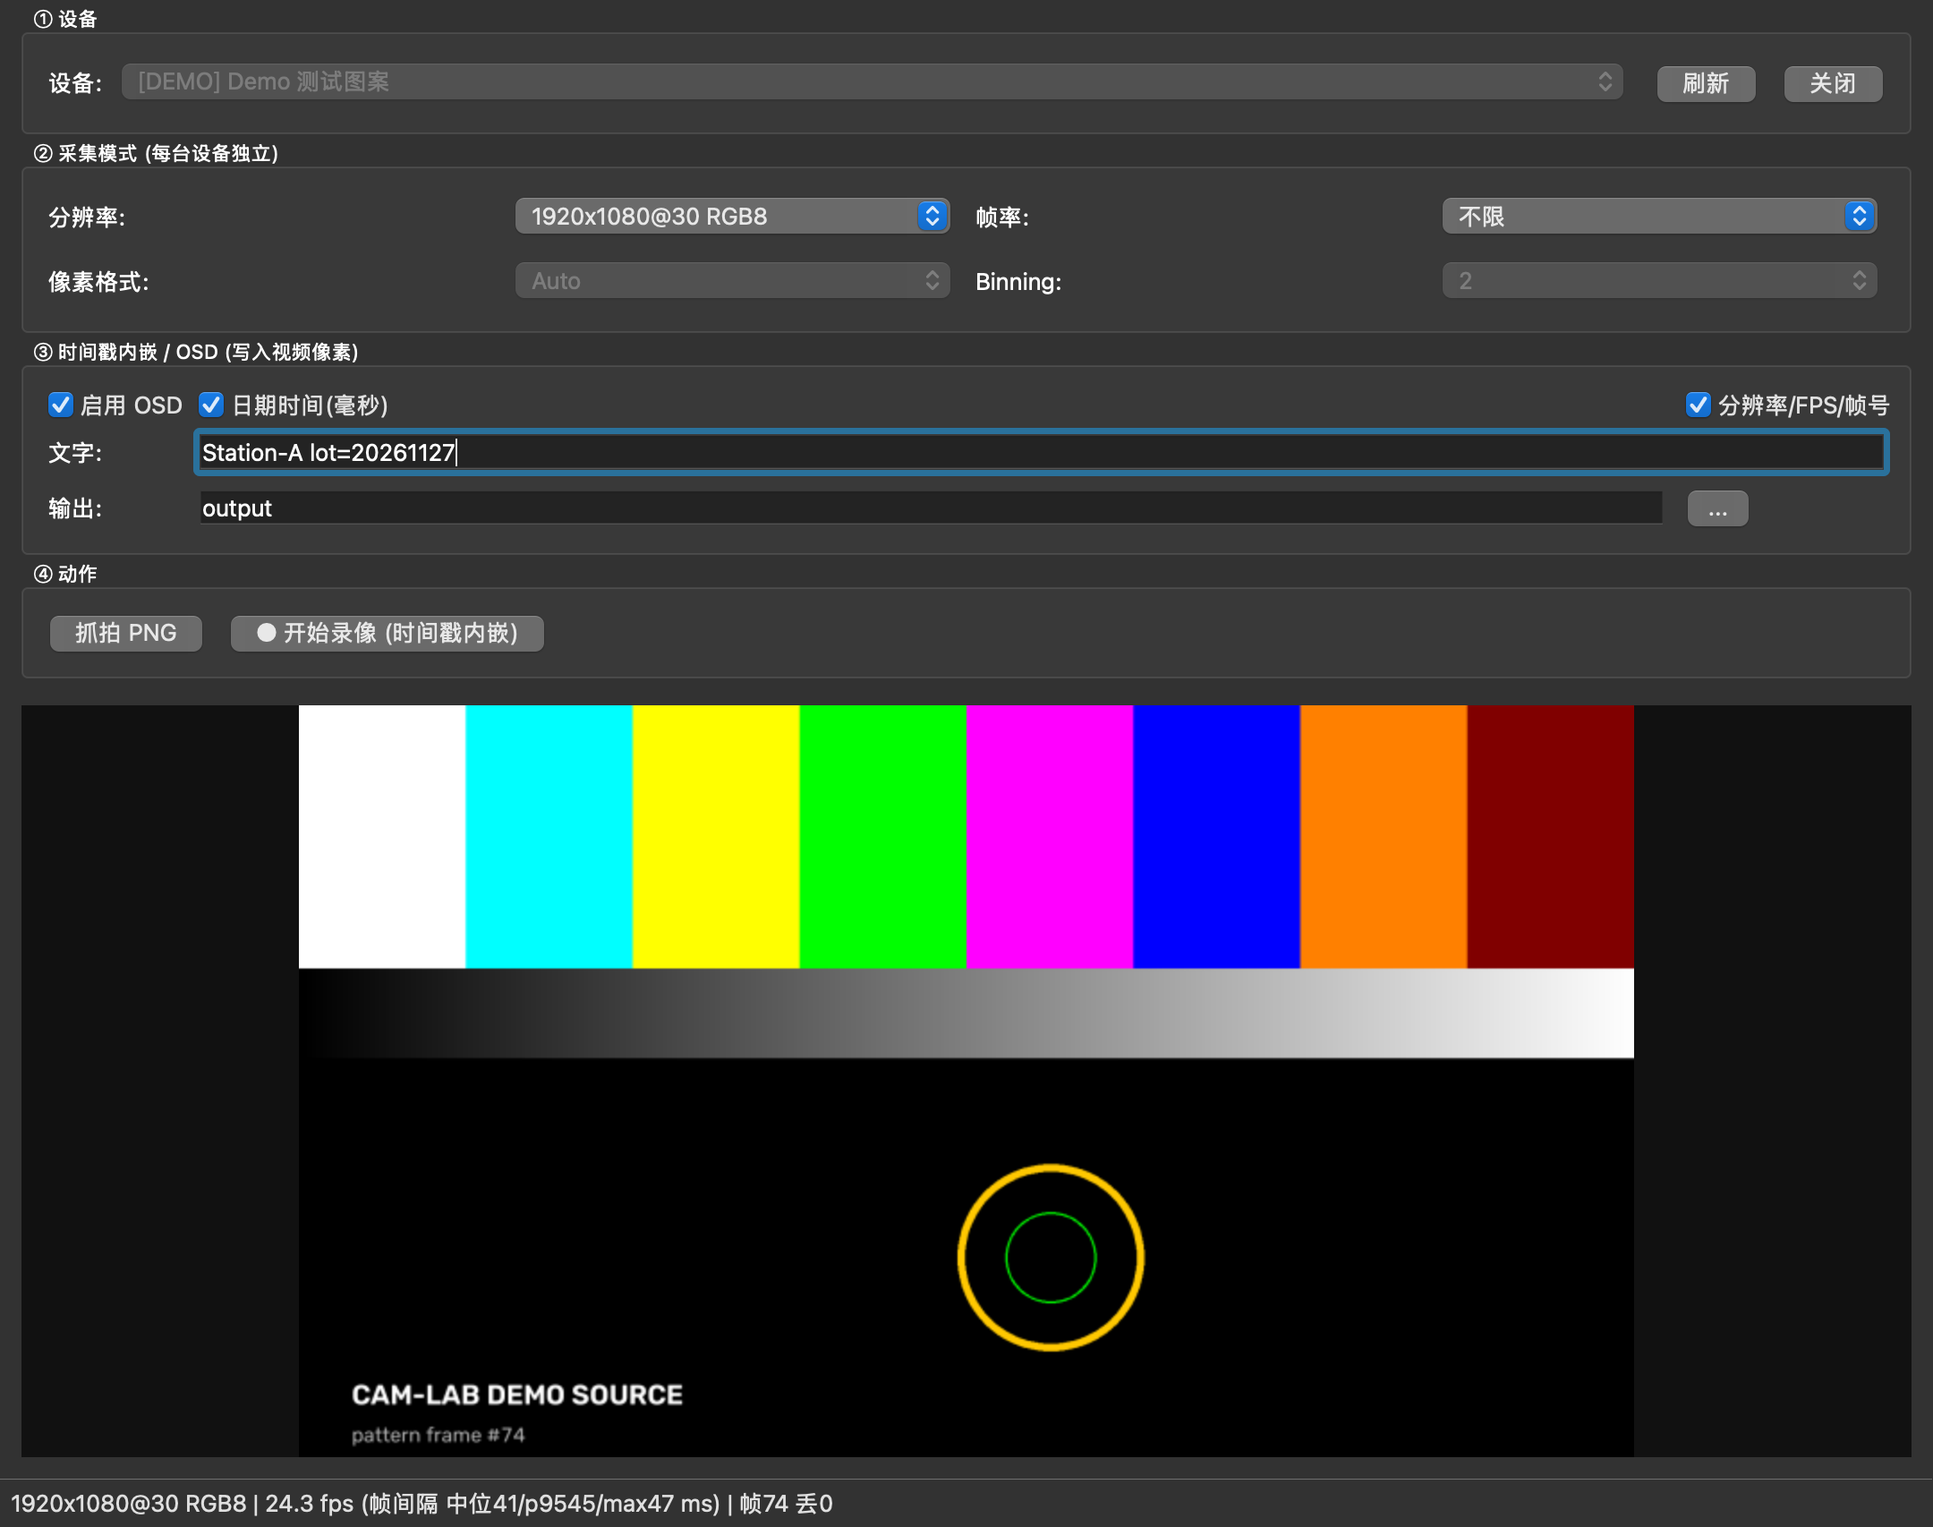
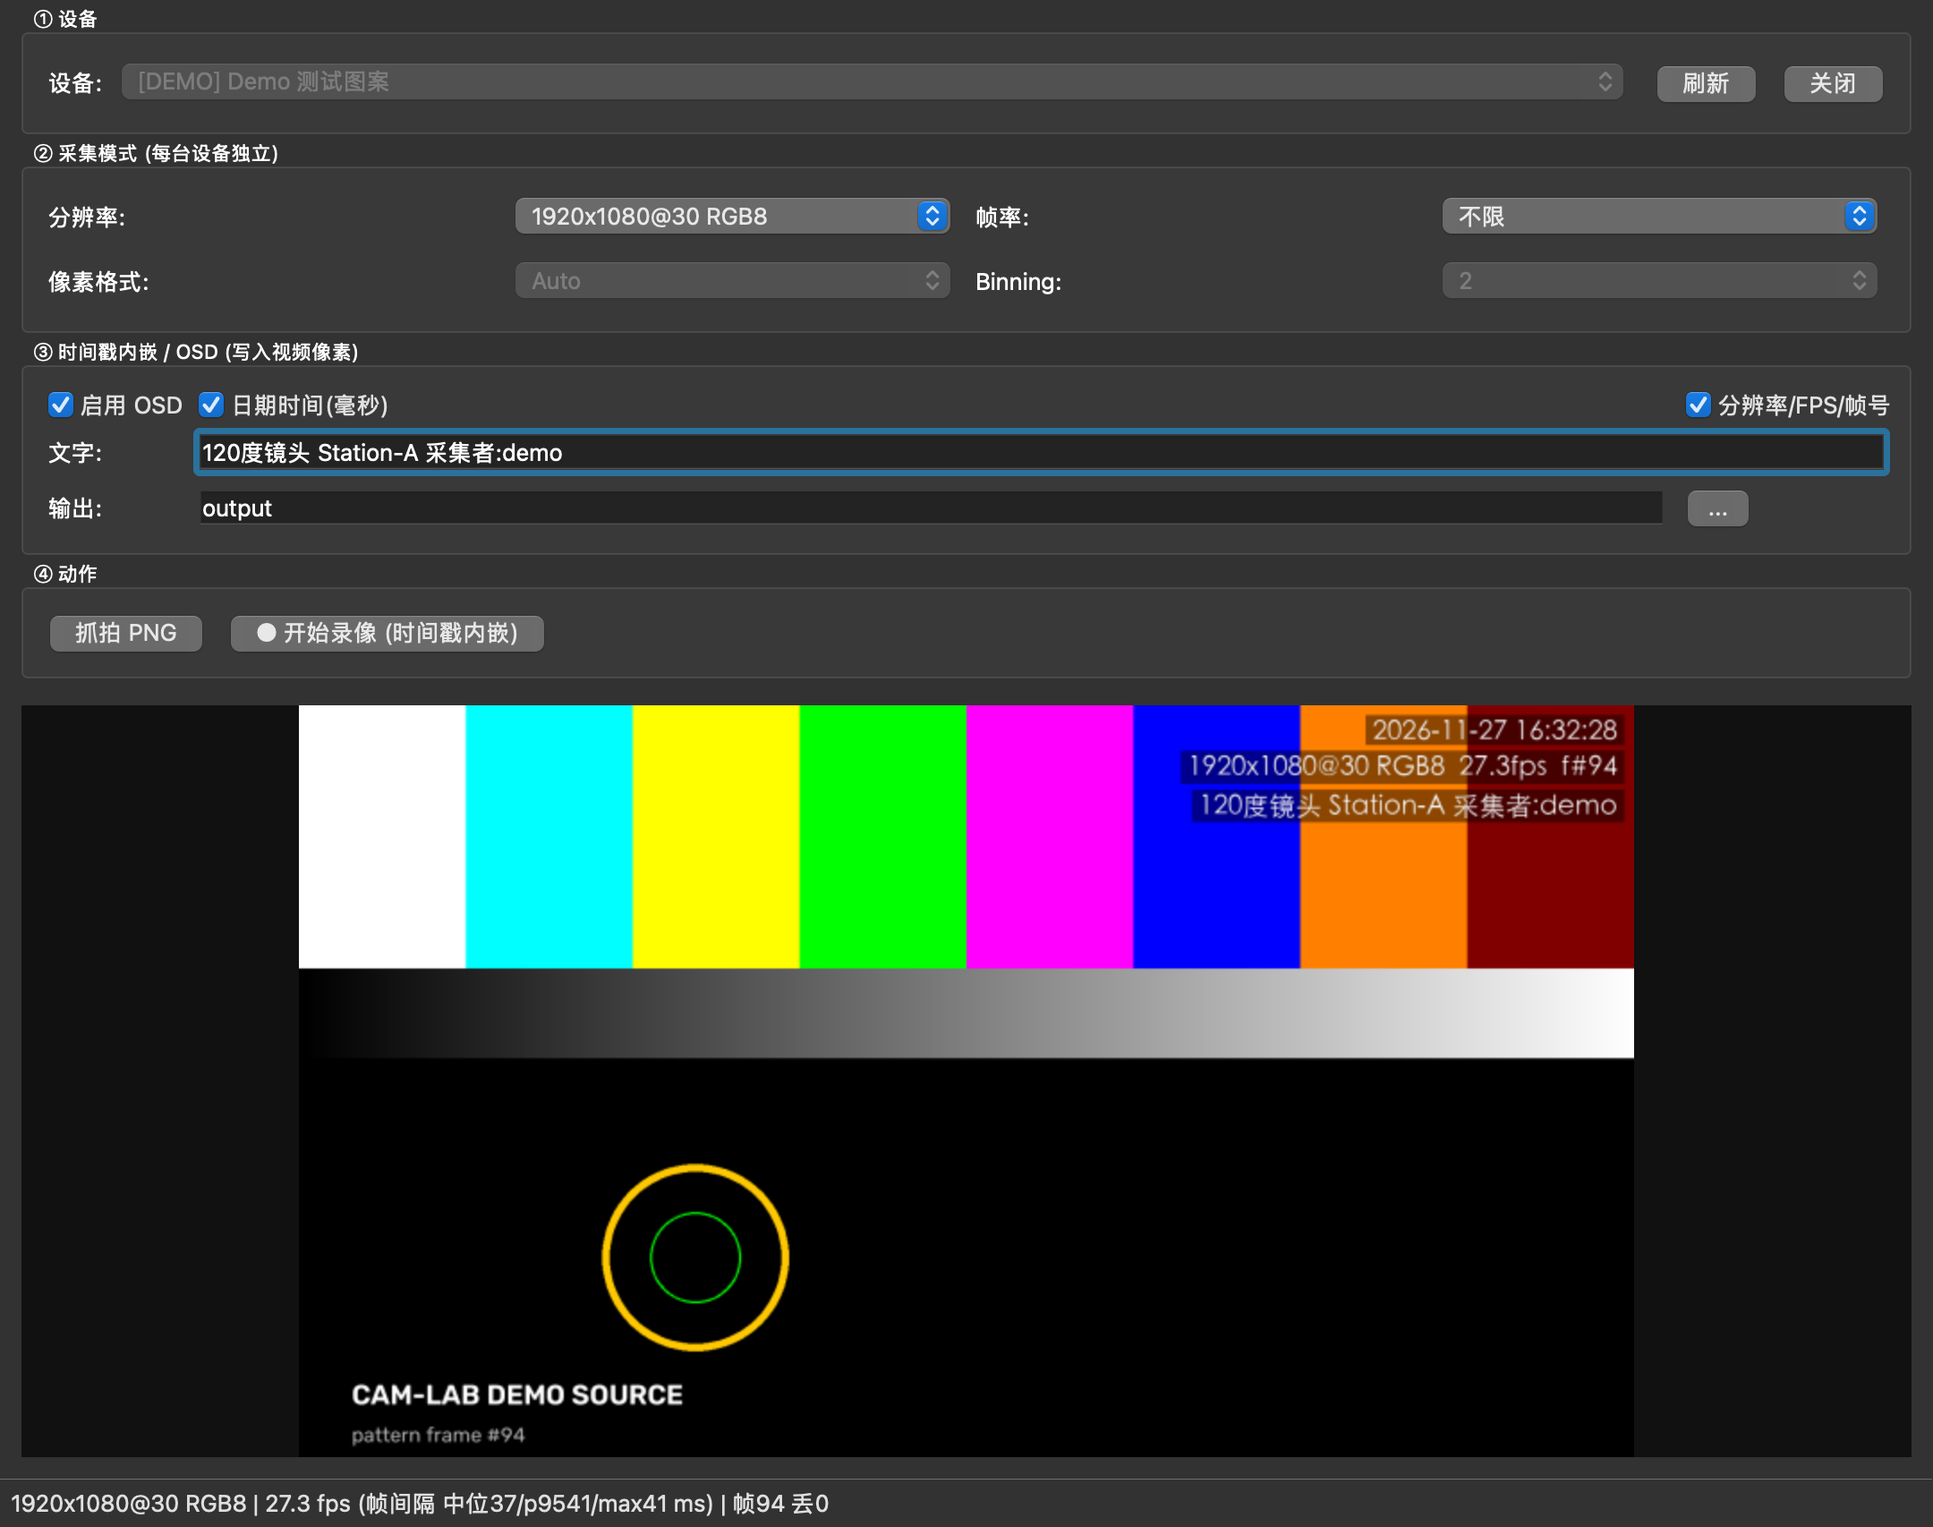
feat: 预览实时OSD(与录像一致)+中文时间戳渲染
- overlay 改用 PIL+系统中文字体(PingFang/雅黑/Noto, CAMLAB_FONT可覆盖),
  无中文环境自动回退 OpenCV Hershey
- 每行文字独立小块渲染+alpha混合(较整帧往返快约10x, 1080p零丢帧)
- 预览与录像共用同一份内嵌OSD(预览即所得), 录像时信息行加 REC 前缀
- RecorderThread: 异常捕获防静默死亡; stop() 非阻塞(修复队列满死锁)
- 输出目录支持相对路径; CLI 支持 demo 后端

diff --git a/camlab/overlay.py b/camlab/overlay.py
@@ -2,93 +2,188 @@
 
 所有文字在「写入录像文件之前」绘制到帧上, 即为内嵌(burn-in)——
 回放视频时文字属于像素的一部分, 不依赖播放器字幕。
+
+中文支持: 优先用 PIL + 系统中文字体(PingFang/微软雅黑/Noto CJK);
+无 PIL 或找不到字体时回退 OpenCV Hershey(仅 ASCII)。
 """
 from __future__ import annotations
 
+import os
+import platform
 import time
-from dataclasses import dataclass, field
+from dataclasses import dataclass
 from datetime import datetime
 
 import cv2
 import numpy as np
 
 FONT = cv2.FONT_HERSHEY_SIMPLEX
-FONT_SCALE = 0.62
-THICK = 1
+
+# 各平台常见中文字体路径(按顺序探测)
+FONT_CANDIDATES = {
+    "Darwin": [
+        "/System/Library/Fonts/PingFang.ttc",
+        "/System/Library/Fonts/STHeiti Light.ttc",
+        "/System/Library/Fonts/Hiragino Sans GB.ttc",
+    ],
+    "Windows": [
+        "C:/Windows/Fonts/msyh.ttc",
+        "C:/Windows/Fonts/msyhbd.ttc",
+        "C:/Windows/Fonts/simhei.ttf",
+    ],
+    "Linux": [
+        "/usr/share/fonts/opentype/noto/NotoSansCJK-Regular.ttc",
+        "/usr/share/fonts/noto-cjk/NotoSansCJK-Regular.ttc",
+        "/usr/share/fonts/truetype/wqy/wqy-zenhei.ttc",
+    ],
+}
+_font_cache: dict[int, object] = {}
+_pil_ok: bool | None = None
+
+
+def _pil_available() -> bool:
+    global _pil_ok
+    if _pil_ok is None:
+        try:
+            from PIL import Image  # noqa: F401
+            _pil_ok = True
+        except ImportError:
+            _pil_ok = False
+    return _pil_ok
+
+
+def _load_font(px: int):
+    """按像素大小加载中文字体(带缓存)。失败返回 None。"""
+    if px in _font_cache:
+        return _font_cache[px]
+    font = None
+    try:
+        from PIL import ImageFont
+        paths = FONT_CANDIDATES.get(platform.system(), [])
+        custom = os.environ.get("CAMLAB_FONT")
+        if custom:
+            paths = [custom] + paths
+        for path in paths:
+            if os.path.exists(path):
+                font = ImageFont.truetype(path, px)
+                break
+    except Exception:
+        font = None
+    _font_cache[px] = font
+    return font
 
 
 @dataclass
 class OverlayConfig:
-    """OSD 配置。text 字段注意: OpenCV Hershey 字体只支持 ASCII。"""
+    """OSD 配置。中文文本需系统存在中文字体(PIL 路径)。"""
 
     enabled: bool = True
-    show_timestamp: bool = True       # 日期时间(含毫秒)
-    show_info: bool = True            # 分辨率/帧率/帧号
-    custom_text: str = ""             # 自定义行(ASCII)
-    color: tuple = (80, 255, 120)     # BGR 绿
-    bg_alpha: float = 0.45
-    margin: int = 12
-    line_gap: int = 6
+    show_timestamp: bool = True       # 日期时间(毫秒->秒级)
+    show_info: bool = True            # REC/分辨率/帧率/帧号
+    custom_text: str = ""             # 自定义行(支持中文, \n 换行)
+    align: str = "right"              # right=右上角(参考风格) / left=左上角
+    color: tuple = (255, 255, 255)    # 文字颜色 RGB 白
+    bg_alpha: float = 0.55
+    margin: int = 14
+    line_gap: int = 8
 
     def build_lines(self, info: dict) -> list[str]:
-        """按配置生成要画的文本行。info: {mode,fps,frames,dropped,device}"""
+        """按配置生成要画的文本行。info: {mode,fps,frames,dropped,device,rec}"""
         if not self.enabled:
             return []
         lines: list[str] = []
         if self.show_timestamp:
-            now = datetime.now()
-            lines.append(now.strftime("%Y-%m-%d %H:%M:%S.") + f"{now.microsecond // 1000:03d}")
+            lines.append(datetime.now().strftime("%Y-%m-%d %H:%M:%S"))
         if self.show_info:
-            lines.append(
-                f"{info.get('device', '')} {info.get('mode', '')}"
-                f"  {info.get('fps', 0):.1f}fps  f#{info.get('frames', 0)}"
-                + (f"  drop{info.get('dropped', 0)}" if info.get("dropped") else "")
-            )
+            base = (f"{info.get('mode', '')}  {info.get('fps', 0):.1f}fps"
+                    f"  f#{info.get('frames', 0)}")
+            if info.get("rec"):
+                base = "REC  " + base
+            lines.append(base)
         if self.custom_text:
-            for seg in self.custom_text.split("\\n"):
+            for seg in str(self.custom_text).split("\n"):
                 if seg.strip():
-                    lines.append(_ascii_safe(seg.strip(), " "))
+                    lines.append(seg.strip())
         return lines
 
 
-def draw_lines(frame: np.ndarray, lines: list[str], cfg: OverlayConfig | None = None) -> np.ndarray:
-    """在帧左上角绘制多行文字(带半透明底条), 就地修改并返回。"""
-    if not lines:
-        return frame
-    cfg = cfg or OverlayConfig()
+def _draw_pil(frame: np.ndarray, lines: list[str], cfg: OverlayConfig) -> np.ndarray | None:
+    """PIL 渲染(支持中文): 每行文字渲染成小块后 alpha 混合, 避免整帧往返(快~10x)。"""
+    from PIL import Image, ImageDraw
     h, w = frame.shape[:2]
-    scale = max(0.45, min(0.9, w / 1600.0))       # 按分辨率自适应字号
-    thick = max(1, int(round(scale * 1.6)))
-    pad_x, pad_y = int(cfg.margin * scale * 1.2), int(6 * scale)
-    line_h = int((FONT_SCALE * scale * 30) + cfg.line_gap)
+    px = max(22, min(46, int(h / 28)))            # 字号随分辨率自适应
+    font = _load_font(px)
+    if font is None:
+        return None
 
-    overlay = frame if cfg.bg_alpha <= 0 else frame.copy()
-    y = pad_y
-    for text in lines:
-        (tw, th), base = cv2.getTextSize(text, FONT, FONT_SCALE * scale, thick)
-        if cfg.bg_alpha > 0:
-            cv2.rectangle(overlay, (0, y), (tw + pad_x * 2, y + th + base + pad_y * 2),
-                          (0, 0, 0), -1)
-        cv2.putText(overlay, text, (pad_x, y + th + pad_y), FONT,
-                    FONT_SCALE * scale, cfg.color, thick, cv2.LINE_AA)
-        y += th + base + pad_y * 2 + cfg.line_gap
-    if cfg.bg_alpha > 0:
-        cv2.addWeighted(overlay, cfg.bg_alpha, frame, 1 - cfg.bg_alpha, 0, dst=frame)
+    bg_alpha = int(255 * cfg.bg_alpha)
+    pad_x, pad_y = 10, 6
+    y = cfg.margin
+    for line in lines:
+        # 测量: 用临时画布
+        tmp = Image.new("RGBA", (10, 10))
+        tbox = ImageDraw.Draw(tmp).textbbox((0, 0), line, font=font)
+        tw, th = tbox[2] - tbox[0], tbox[3] - tbox[1]
+        # 渲染单行小块(文字+底条)
+        tile = Image.new("RGBA", (tw + pad_x * 2, th + pad_y * 2), (0, 0, 0, 0))
+        tdraw = ImageDraw.Draw(tile)
+        tdraw.rectangle([0, 0, tile.size[0] - 1, tile.size[1] - 1],
+                        fill=(0, 0, 0, bg_alpha))
+        tdraw.text((pad_x - tbox[0], pad_y - tbox[1]), line, font=font,
+                   fill=(cfg.color[0], cfg.color[1], cfg.color[2], 255))
+        tile_np = np.asarray(tile)                       # RGBA
+        th_h, tw_w = tile_np.shape[:2]
+        if cfg.align == "right":
+            x0 = w - cfg.margin - tw_w
+        else:
+            x0 = cfg.margin
+        x0 = max(0, min(x0, w - tw_w))
+        y0 = max(0, min(y, h - th_h))
+        region = frame[y0:y0 + th_h, x0:x0 + tw_w].astype(np.float32)
+        alpha = tile_np[:, :, 3:4].astype(np.float32) / 255.0
+        rgb = tile_np[:, :, :3][:, :, ::-1].astype(np.float32)   # RGBA->BGR
+        frame[y0:y0 + th_h, x0:x0 + tw_w] = (rgb * alpha +
+                                             region * (1 - alpha)).astype(np.uint8)
+        y += th_h + cfg.line_gap
     return frame
 
 
-def _ascii_safe(text: str, fallback: str = "cam") -> str:
-    """OpenCV Hershey 字体仅支持 ASCII, 非 ASCII 字符统一替换避免渲染成 ?。"""
-    cleaned = text.encode("ascii", "replace").decode("ascii").replace("?", "")
-    cleaned = " ".join(cleaned.split())
-    return cleaned or fallback
+def _draw_cv2(frame: np.ndarray, lines: list[str], cfg: OverlayConfig) -> np.ndarray:
+    """OpenCV 回退渲染(仅 ASCII, 右上/左上对齐)。"""
+    h, w = frame.shape[:2]
+    scale = max(0.6, min(1.1, w / 1500.0))
+    thick = max(1, int(round(scale * 1.8)))
+    pad_y = int(8 * scale)
+    pad_x = 10
+    overlay = frame.copy()
+    y = cfg.margin
+    for text in lines:
+        (tw, th), base = cv2.getTextSize(text, FONT, scale, thick)
+        x0 = (w - cfg.margin - tw - pad_x * 2) if cfg.align == "right" else cfg.margin
+        cv2.rectangle(overlay, (x0, y), (x0 + tw + pad_x * 2, y + th + base + pad_y * 2),
+                      (0, 0, 0), -1)
+        cv2.putText(overlay, text, (x0 + pad_x, y + th + pad_y), FONT,
+                    scale, (cfg.color[2], cfg.color[1], cfg.color[0]), thick, cv2.LINE_AA)
+        y += th + base + pad_y * 2 + cfg.line_gap
+    cv2.addWeighted(overlay, cfg.bg_alpha, frame, 1 - cfg.bg_alpha, 0, dst=frame)
+    return frame
+
+
+def draw_lines(frame: np.ndarray, lines: list[str], cfg: OverlayConfig | None = None) -> np.ndarray:
+    """在帧上绘制多行 OSD(半透明底条)。就地修改并返回。"""
+    if not lines:
+        return frame
+    cfg = cfg or OverlayConfig()
+    if _pil_available():
+        out = _draw_pil(frame, lines, cfg)
+        if out is not None:
+            frame[:] = out
+            return frame
+    return _draw_cv2(frame, lines, cfg)
 
 
 def make_timestamped(frame: np.ndarray, cfg: OverlayConfig, info: dict) -> np.ndarray:
     """按配置生成 OSD 行并绘制。"""
-    info = dict(info)
-    info["device"] = _ascii_safe(str(info.get("device", "")))
-    info["mode"] = _ascii_safe(str(info.get("mode", "")), "mode")
     return draw_lines(frame, cfg.build_lines(info), cfg)
 
 

diff --git a/camlab/gui.py b/camlab/gui.py
@@ -13,7 +13,7 @@ from PySide6.QtWidgets import (QCheckBox, QComboBox, QFileDialog, QGridLayout, Q
                                QPushButton, QSpinBox, QStatusBar, QVBoxLayout, QWidget)
 
 from .base import Mode
-from .overlay import OverlayConfig, now_str
+from .overlay import OverlayConfig, make_timestamped, now_str
 from .recording import RecorderThread, save_snapshot
 from .registry import registry
 from .stats import FpsCounter
@@ -52,9 +52,14 @@ class CaptureWorker(QThread):
             back2back = 0
             self.fps.update()
             self.frames += 1
+            rec = bool(self.recorder and self.recorder.is_alive())
             info = {"device": self.session.device.name,
                     "mode": self.session.actual_mode.label() if self.session.actual_mode else "",
-                    "fps": self.fps.fps, "frames": self.frames, "dropped": self.dropped}
+                    "fps": self.fps.fps, "frames": self.frames, "dropped": self.dropped,
+                    "rec": rec}
+            # 预览与录像共用同一份内嵌 OSD(预览即所得)
+            if self.overlay.enabled:
+                frame = make_timestamped(frame, self.overlay, info)
             if self.recorder and self.recorder.is_alive():
                 self.recorder.put(frame, info)
             self.frameReady.emit(frame, info)
@@ -127,7 +132,7 @@ class MainWindow(QMainWindow):
         self.chk_info = QCheckBox("分辨率/FPS/帧号")
         self.chk_info.setChecked(True)
         self.ed_text = QLineEdit()
-        self.ed_text.setPlaceholderText("自定义文字(ASCII), 如: Station-A lot=20261127")
+        self.ed_text.setPlaceholderText("自定义文字(支持中文), 如: Station-A 120度镜头 采集者:xxx")
         self.ed_out = QLineEdit("output")     # 相对路径基于当前工作目录解析
         btn_dir = QPushButton("...")
         btn_dir.setFixedWidth(36)
@@ -333,7 +338,8 @@ class MainWindow(QMainWindow):
         mode = self.session.actual_mode
         path = os.path.join(self.out_dir, f"rec_{now_str()}_{mode.label().replace(' ', '_')}.mp4")
         self.recorder = RecorderThread(path, mode.fps or 30, (mode.width, mode.height),
-                                       overlay=self._overlay_config(), segment_seconds=0)
+                                       overlay=OverlayConfig(enabled=False),
+                                       segment_seconds=0)
         self.recorder.start()
         self.worker.recorder = self.recorder
         self.btn_rec.setText("■ 停止录像")

diff --git a/camlab/recording.py b/camlab/recording.py
@@ -51,7 +51,10 @@ class RecorderThread(threading.Thread):
 
     def stop(self) -> None:
         self._stop_event.set()
-        self._q.put(None)
+        try:                       # 唤醒空队列等待; 队列满时靠事件标志退出
+            self._q.put_nowait(None)
+        except Exception:
+            pass
 
     def join_and_release(self, timeout: float = 5.0) -> None:
         self.stop()
@@ -101,6 +104,7 @@ class RecorderThread(threading.Thread):
         return np.zeros((h, w, 3), dtype=np.uint8)
 
     def run(self) -> None:
+        import traceback
         while not self._stop_event.is_set():
             try:
                 item = self._q.get(timeout=0.5)
@@ -109,16 +113,20 @@ class RecorderThread(threading.Thread):
             if item is None:
                 break
             frame, info = item
-            if self._writer is None:
-                if not self._open_writer(frame):
-                    break
-            elif self.segment_seconds and \
-                    time.time() - self._seg_started >= self.segment_seconds:
-                self._roll_segment()
-            if self.overlay.enabled:
-                frame = make_timestamped(frame, self.overlay, info)
-            self._writer.write(frame)
-            self.frames_written += 1
+            try:
+                if self._writer is None:
+                    if not self._open_writer(frame):
+                        break
+                elif self.segment_seconds and \
+                        time.time() - self._seg_started >= self.segment_seconds:
+                    self._roll_segment()
+                if self.overlay.enabled:
+                    frame = make_timestamped(frame, self.overlay, info)
+                self._writer.write(frame)
+                self.frames_written += 1
+            except Exception:
+                self.error = traceback.format_exc()   # 记录并退出, 避免静默死亡
+                break
         self._release()
 
     @property

diff --git a/camlab/cli.py b/camlab/cli.py
@@ -117,7 +117,8 @@ def cmd_record(args) -> int:
             continue
         stats.update()
         rec.put(frame, {"device": session.device.name, "mode": actual.label(),
-                        "fps": stats.fps, "frames": stats.frames, "dropped": 0})
+                        "fps": stats.fps, "frames": stats.frames, "dropped": 0,
+                        "rec": True})
     rec.join_and_release()
     print(f"完成: {rec.path}  写入{rec.frames_written}帧 采集{stats.frames}帧 "
           f"丢队列{rec.frames_dropped}  ({rec.fourcc})")
@@ -139,7 +140,7 @@ def main(argv=None) -> int:
     p.set_defaults(fn=cmd_probe)
 
     p = sub.add_parser("grab", help="抓帧测试(存首帧, 输出帧率统计)")
-    p.add_argument("-b", "--backend", default="uvc", choices=["uvc", "mvs"])
+    p.add_argument("-b", "--backend", default="uvc", choices=["uvc", "mvs", "demo"])
     p.add_argument("-d", "--device", help="设备id(uvc=索引, mvs=索引)")
     p.add_argument("-m", "--mode", help="模式, 如 1920x1080@30 MJPG")
     p.add_argument("-n", "--frames", type=int, default=30)
@@ -149,7 +150,7 @@ def main(argv=None) -> int:
     p.set_defaults(fn=cmd_grab)
 
     p = sub.add_parser("record", help="录像(可时间戳内嵌)")
-    p.add_argument("-b", "--backend", default="uvc", choices=["uvc", "mvs"])
+    p.add_argument("-b", "--backend", default="uvc", choices=["uvc", "mvs", "demo"])
     p.add_argument("-d", "--device")
     p.add_argument("-m", "--mode")
     p.add_argument("-t", "--seconds", type=float, default=10.0)
